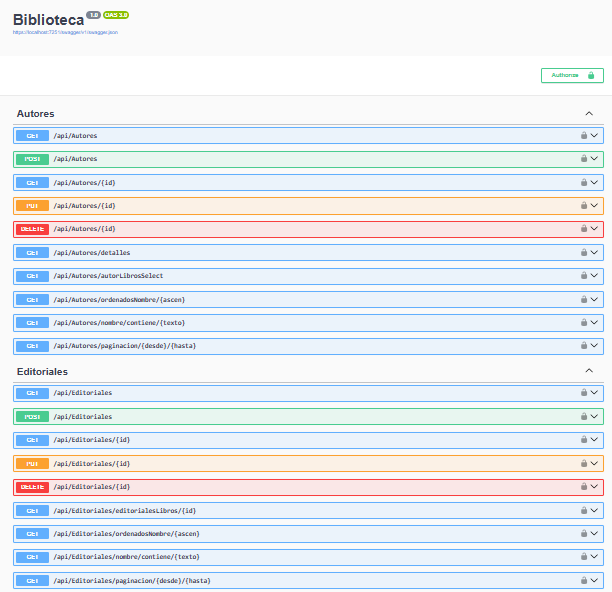
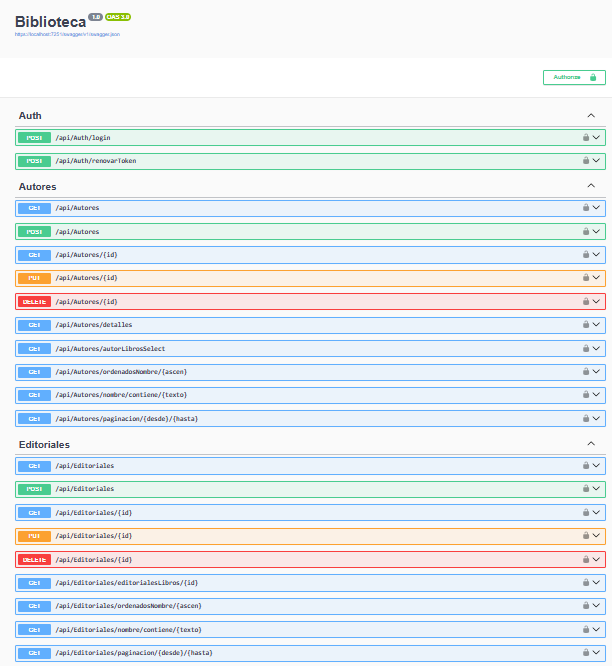
19.02.2025_AuthController

Changed region(s): [[0.0, 0.152, 0.9935, 1.0], [0.0, 0.0, 0.2173, 0.0608], [0.8693, 0.0912, 0.9935, 0.152]]

diff --git a/Biblioteca/Controllers/AuthController.cs b/Biblioteca/Controllers/AuthController.cs
@@ -1,0 +1,67 @@
+using Microsoft.AspNetCore.Authorization;
+using Microsoft.AspNetCore.Mvc;
+using Microsoft.EntityFrameworkCore;
+using Biblioteca.Models;
+using Biblioteca.Services;
+using Biblioteca.DTOs;
+
+namespace Biblioteca.Controllers
+{
+    [Route("api/[controller]")]
+    [ApiController]
+    public class AuthController : ControllerBase
+    {
+        private readonly BibliotecaContext _context;
+        private readonly HashService _hashService;
+        private readonly ITokenService _tokenService;
+        private readonly IHttpContextAccessor _httpContextAccessor;
+        private readonly IWebHostEnvironment _webHostEnvironment;
+
+        public AuthController(BibliotecaContext context,
+        HashService hashService, ITokenService tokenService,
+        IHttpContextAccessor httpContextAccessor, IWebHostEnvironment webHostEnvironment)
+        {
+            _context = context;
+            _hashService = hashService;
+            _tokenService = tokenService;
+            _httpContextAccessor = httpContextAccessor;
+            _webHostEnvironment = webHostEnvironment;
+        }
+
+        [HttpPost("login")]
+        [AllowAnonymous]
+        public async Task<ActionResult> Login([FromBody] UsuarioDTO usuario)
+        {
+            var usuarioDB = await _context.Usuarios.FirstOrDefaultAsync(x => x.Email == usuario.Email);
+            if (usuarioDB == null)
+            {
+                return Unauthorized();
+            }
+
+            var resultadoHash = _hashService.Hash(usuario.Password, usuarioDB.Salt);
+            if (usuarioDB.Password == resultadoHash.Hash)
+            {
+                var response = _tokenService.GenerarToken(usuario);
+                return Ok(response);
+            }
+            else
+            {
+                return Unauthorized();
+            }
+        }
+        [Authorize]
+        [HttpPost("renovarToken")]
+        public async Task<ActionResult> RenovarToken([FromBody] UsuarioDTO usuario)
+        {
+            var usuarioDB = await _context.Usuarios.FirstOrDefaultAsync(x => x.Email == usuario.Email);
+            if (usuarioDB == null)
+            {
+                return Unauthorized();
+            }
+
+            var response = _tokenService.GenerarToken(usuario);
+            return Ok(response);
+        }
+       
+    }
+}

diff --git a/Biblioteca/Services/TokenService.cs b/Biblioteca/Services/TokenService.cs
@@ -6,7 +6,7 @@ using Biblioteca.DTOs;
 
 namespace Biblioteca.Services
 {
-    public class TokenService
+    public class TokenService : ITokenService
     {
         private readonly IConfiguration _configuration;
 
@@ -14,8 +14,7 @@ namespace Biblioteca.Services
         {
             _configuration = configuration;
         }
-
-        private LoginResponseDTO GenerarToken(UsuarioDTO credencialesUsuario)
+        LoginResponseDTO ITokenService.GenerarToken(UsuarioDTO credencialesUsuario)
         {
             var claims = new List<Claim>()
          {
@@ -42,5 +41,7 @@ namespace Biblioteca.Services
                 Email = credencialesUsuario.Email
             };
         }
+
+        
     }
 }

diff --git a/Biblioteca/Program.cs b/Biblioteca/Program.cs
@@ -94,6 +94,7 @@ builder.Services.AddCors(options =>
 builder.Services.AddScoped<IAutorService, AutorService>();
 builder.Services.AddScoped<IEditorialService, EditorialService>();
 builder.Services.AddScoped<ILibroService, LibroService>();
+builder.Services.AddScoped<ITokenService, TokenService>();
 
 builder.Services.AddTransient<OperacionesService>();
 builder.Services.AddTransient<IGestorArchivos, GestorArchivos>();

diff --git a/Biblioteca/Services/ITokenService.cs b/Biblioteca/Services/ITokenService.cs
@@ -1,0 +1,10 @@
+using Biblioteca.DTOs;
+
+namespace Biblioteca.Services
+{
+    public interface ITokenService
+    {
+        LoginResponseDTO GenerarToken(UsuarioDTO credencialesUsuario);
+    }
+
+}
